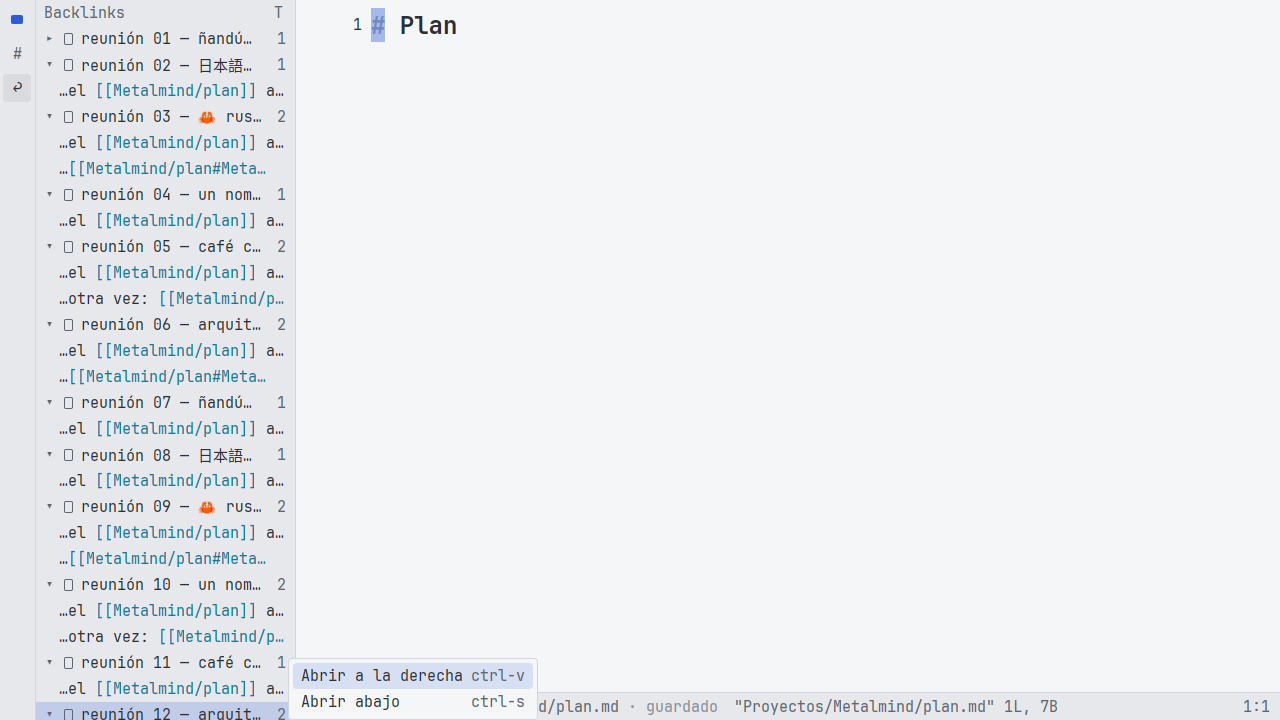
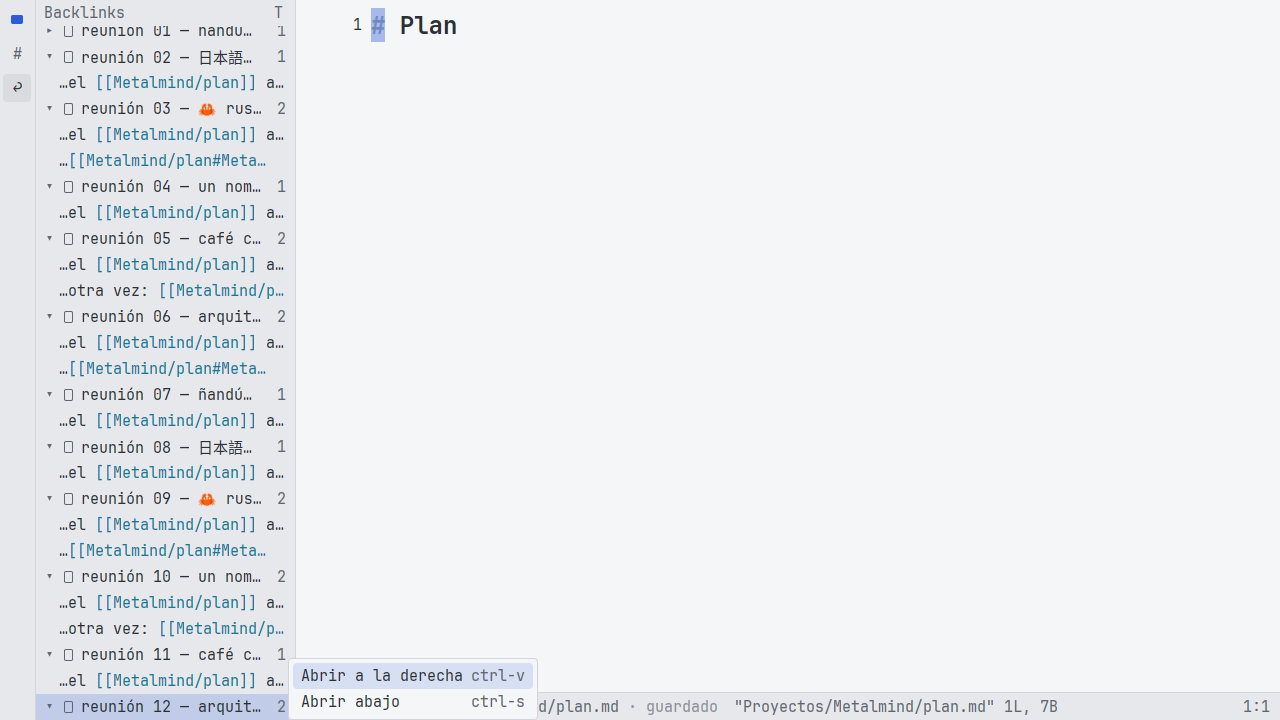
fix(ui): elegir una fila del panel con el ratón la muestra entera
Un clic o el clic derecho sobre una fila cortada por el borde la
desplazan hasta verse entera, como `j` y `k`. Y las capturas del panel
de backlinks, otra vez, sobre `main`.

Changed region(s): [[0.0312, 0.0306, 0.25, 1.0]]

diff --git a/crates/metalmind-ui/src/sidebar/render.rs b/crates/metalmind-ui/src/sidebar/render.rs
@@ -210,7 +210,11 @@ impl Sidebar {
         cx: &mut Context<Self>,
     ) {
         self.focus(window, cx);
-        if let Some(click) = self.panel.click(at, event.click_count()) {
+        // Una fila cortada por el borde se ve entera al elegirla, como con
+        // `j` y `k`.
+        let click = self.panel.click(at, event.click_count());
+        self.scroll_to_selection();
+        if let Some(click) = click {
             let placement = crate::workspace::Placement::Current;
             self.open(&click.path, click.at, placement, click.focus_editor, cx);
         }
@@ -226,6 +230,7 @@ impl Sidebar {
     ) {
         self.focus(window, cx);
         self.panel.outline_mut().select_row(at);
+        self.scroll_to_selection();
         let focus = self.selected_is_focus(cx);
         self.menu = match self.panel.view {
             PanelView::Folders => self.panel.tree.selected_entry().map(|row| {
